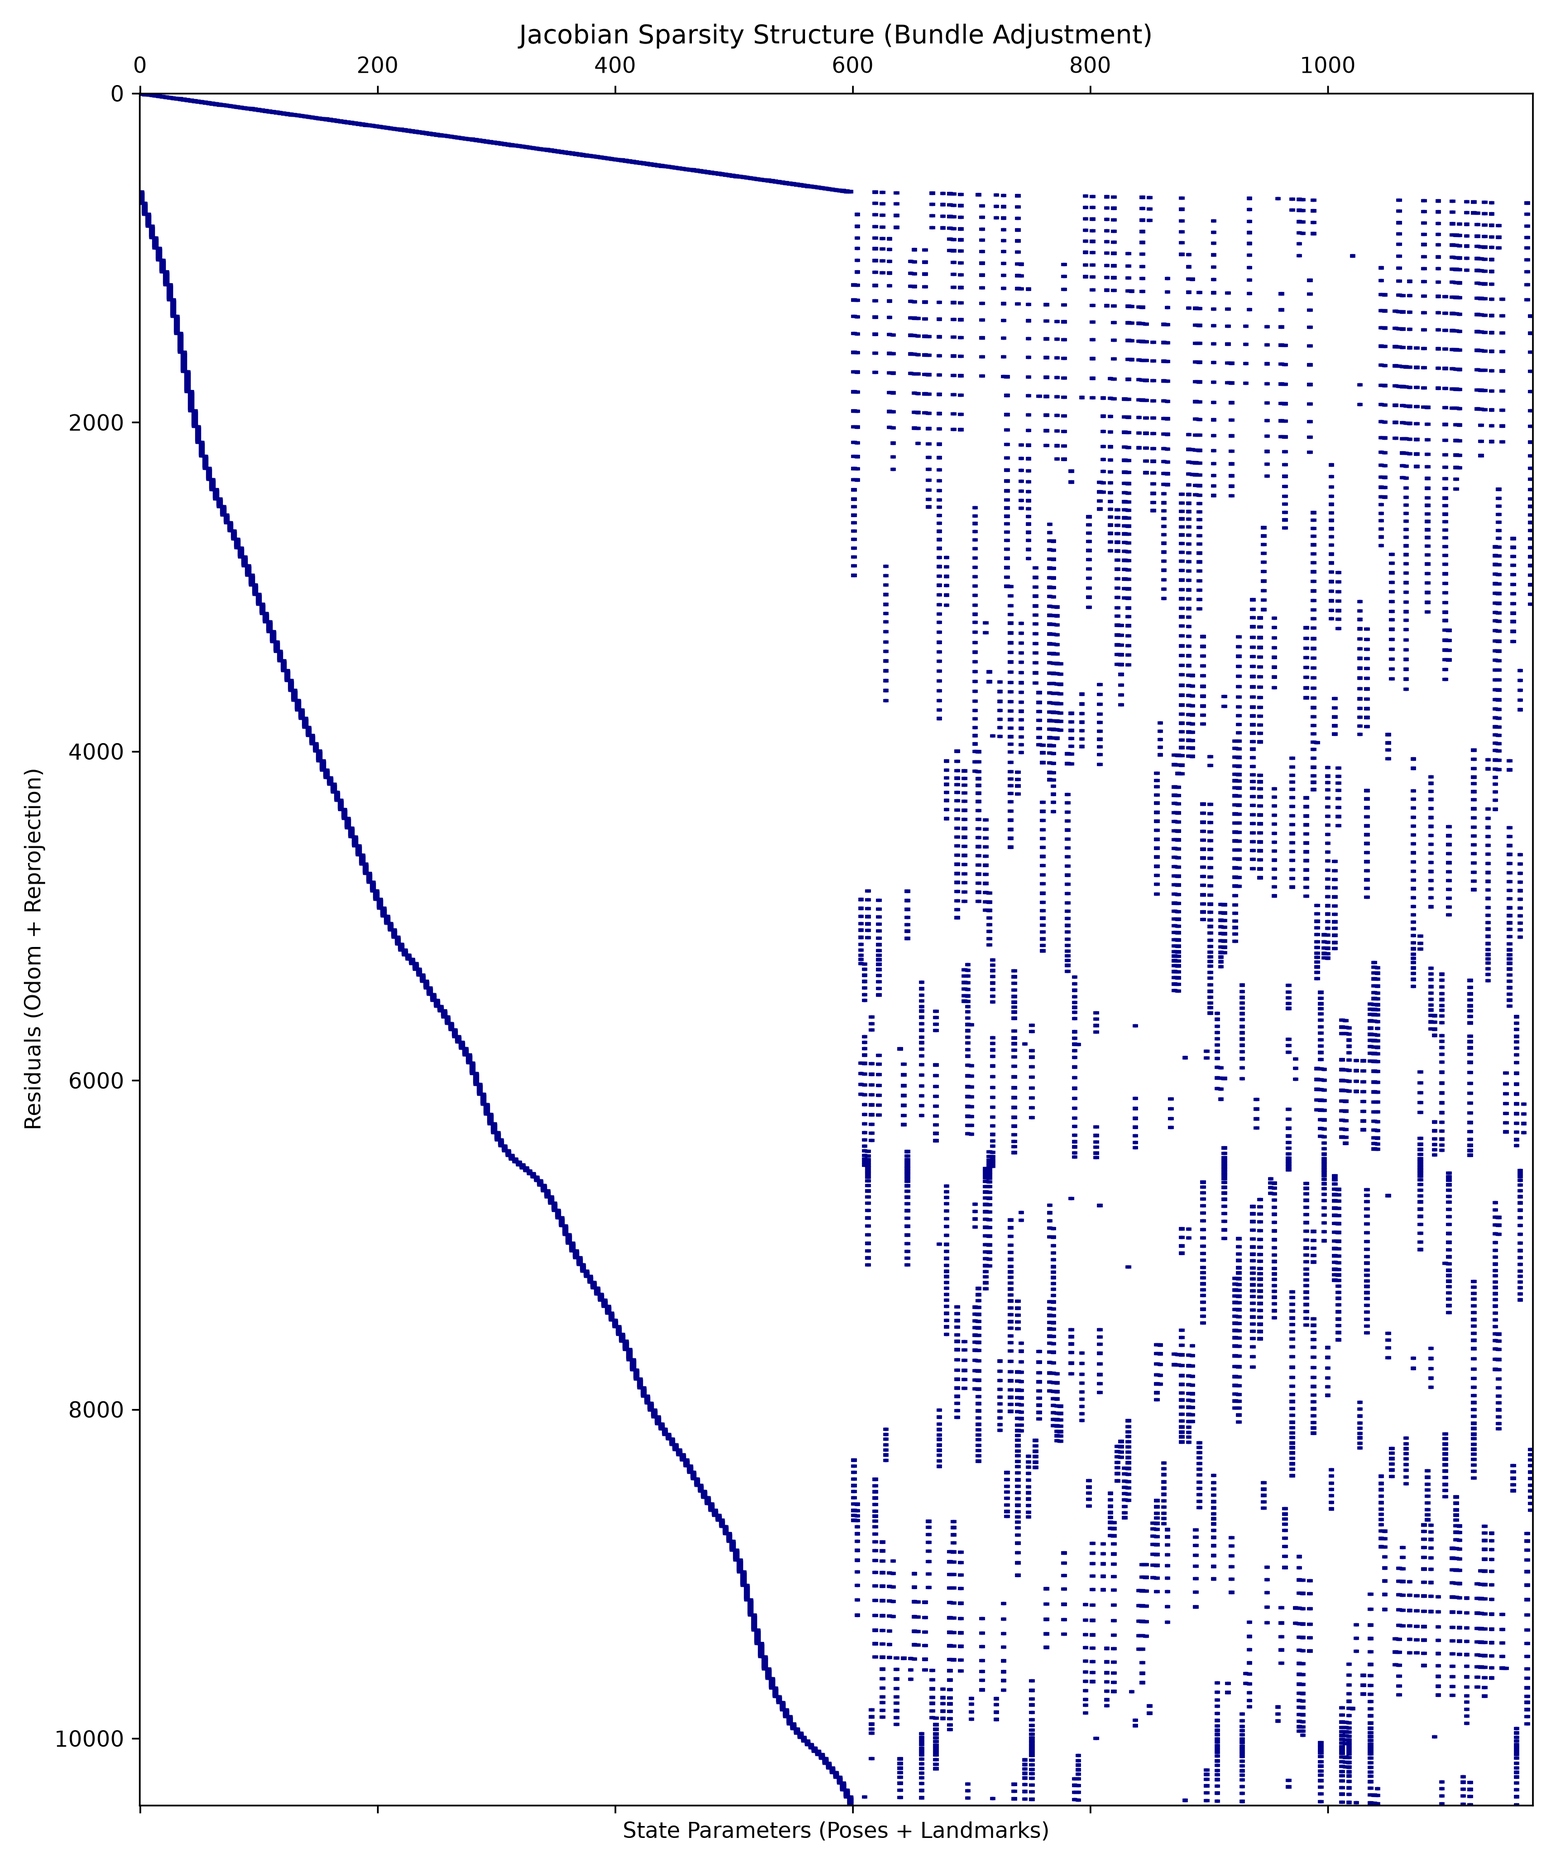
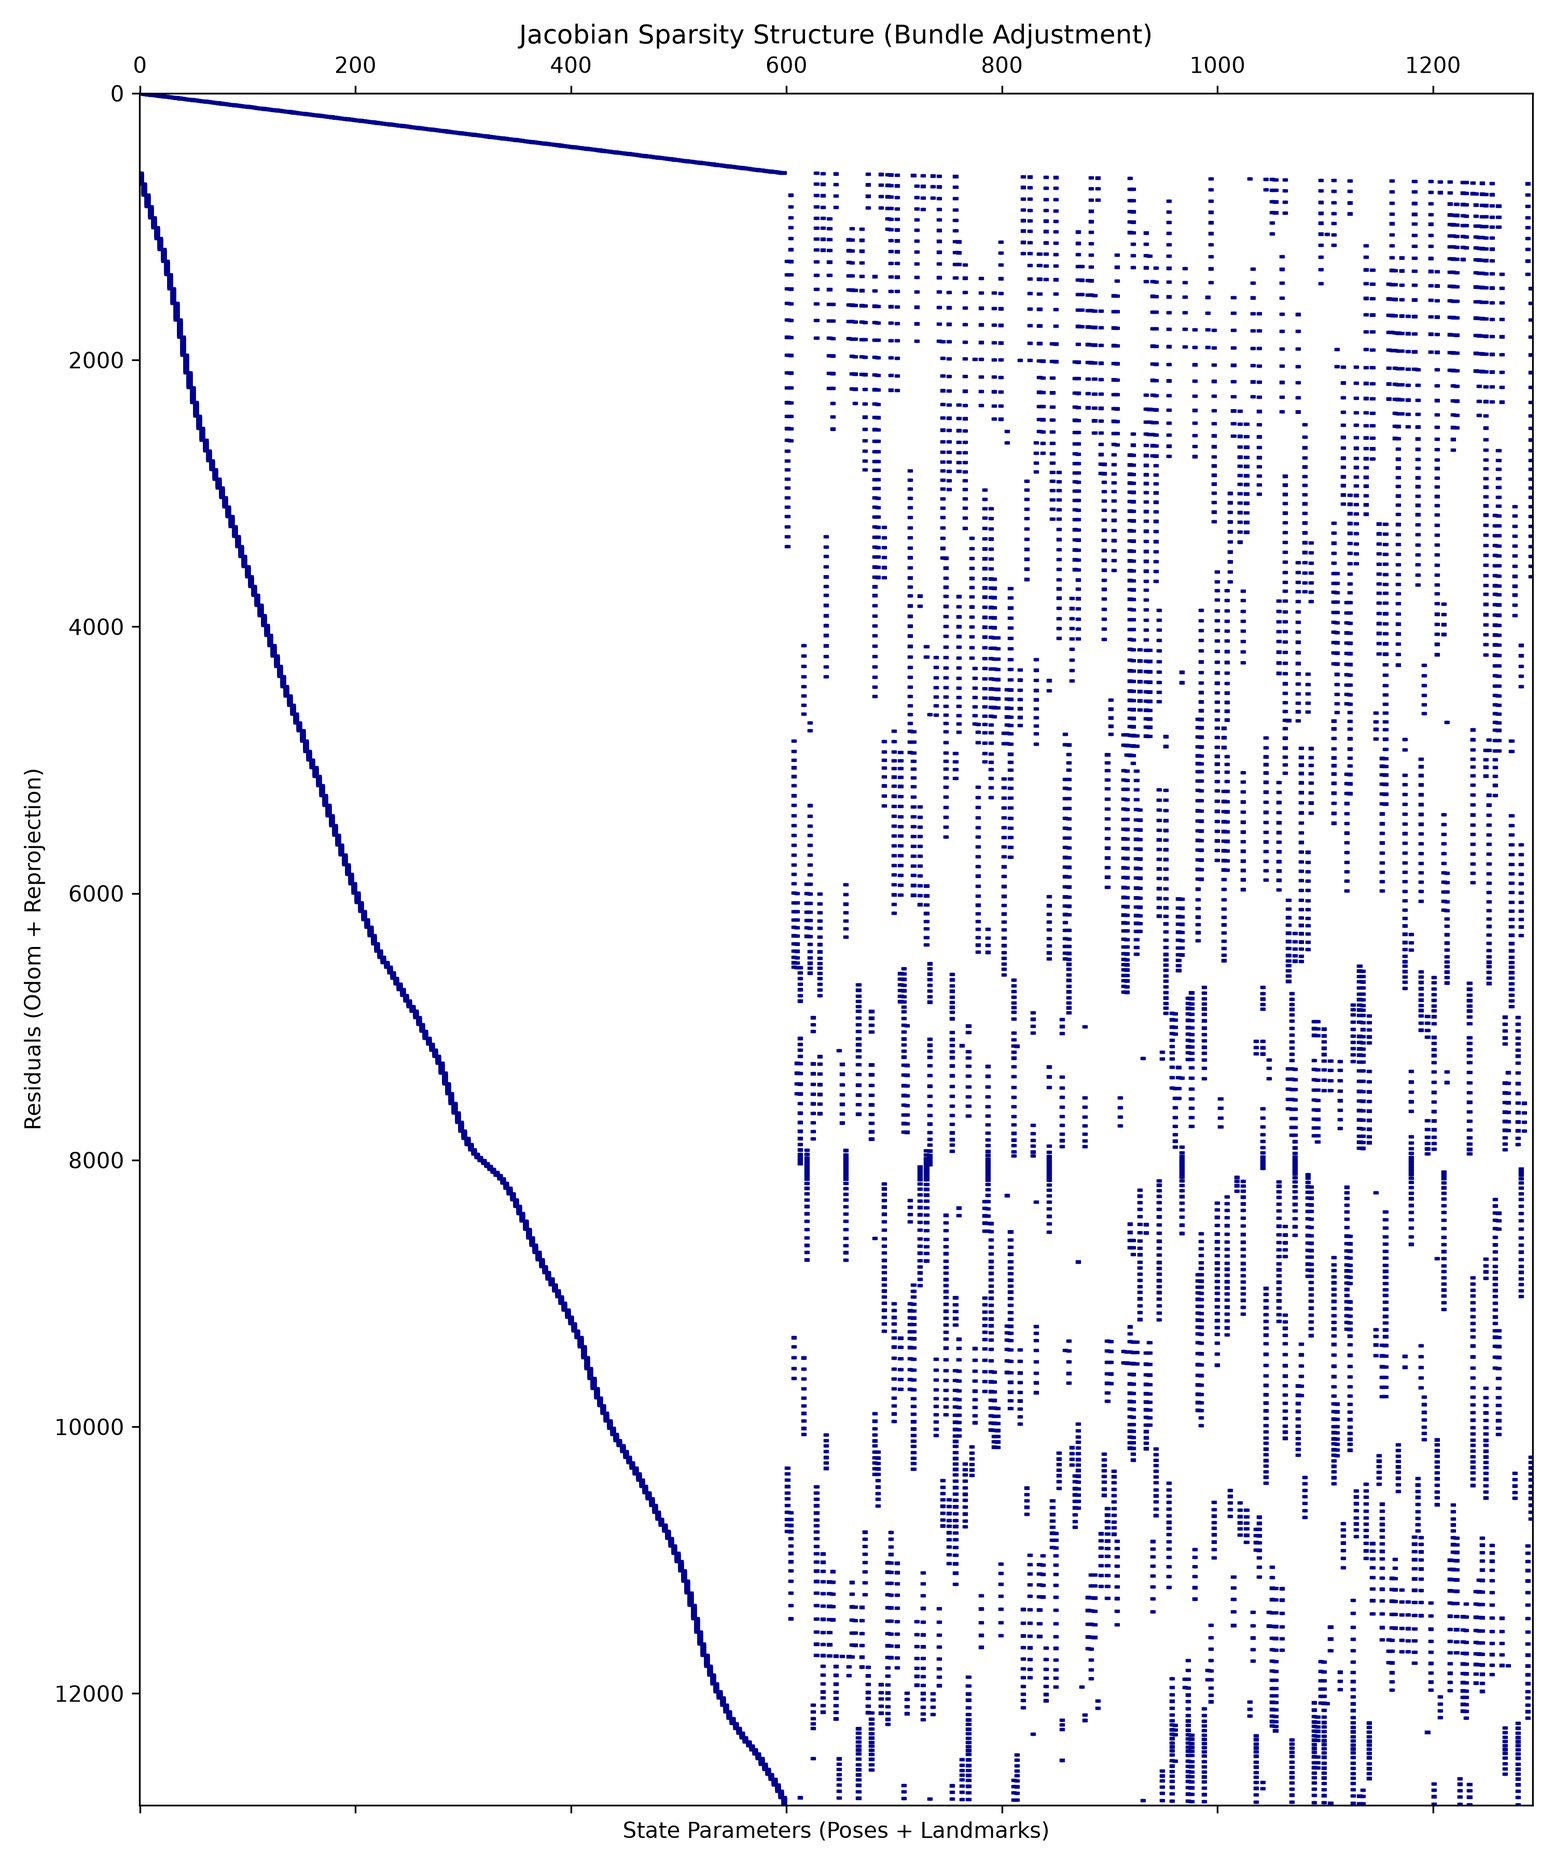
Refine SLAM landmark filtering and BA weighting

diff --git a/backend.py b/backend.py
@@ -74,8 +74,8 @@ def compose_pose_from_odom(odom_pose, delta_pose):
 def compute_residuals(state_vector, pose_keys, point_keys, measurements, K, cam_transform,
                       odom_poses_dict, odom_constraints,
                       w_prior=100.0,
-                      w_odom=np.array([0.01, 0.01, 0.01]),
-                      w_reproj=2.5):
+                      w_odom=np.array([100.0, 100.0, 100.0]),
+                      w_reproj=0.05):
     """
     Total residuals:
     1) prior on the delta of the first pose
@@ -199,19 +199,18 @@ def build_sparsity_matrix(pose_keys, point_keys, measurements, odom_constraints,
     return A
 
 def filter_bad_landmarks(optimized_poses, optimized_map, measurements, K, cam_transform,
-                         max_mean_reproj_error=55.0,
+                         max_median_reproj_error=25.0,
+                         max_p90_reproj_error=120.0,
+                         max_mean_reproj_error=500.0,
                          min_valid_obs=1,
-                         max_distance=45.0):
+                         max_distance=100.0):
     """
-    Conservative post-optimization landmark filtering.
+    Conservative but robust post-optimization landmark filtering.
 
-    Since this is a SLAM project, the mapping component should preserve most of
-    the reconstructed landmarks. Therefore, this filter removes only landmarks
-    that are numerically invalid, geometrically implausible, or have a very high
-    mean reprojection error.
-
-    The goal is not to obtain the densest possible map at any cost, but to avoid
-    rejecting too many landmarks while keeping the trajectory estimation stable.
+    The goal is to preserve most of the reconstructed map while removing only
+    clearly unreliable landmarks. Instead of using only the mean reprojection
+    error, this filter also uses the median and the 90th percentile, which are
+    more robust to isolated extreme outliers.
     """
     filtered_map = {}
 
@@ -221,7 +220,7 @@ def filter_bad_landmarks(optimized_poses, optimized_map, measurements, K, cam_tr
         if not np.all(np.isfinite(pt_3d)):
             continue
 
-        # Reject only clearly implausible landmarks
+        # Reject only clearly implausible points
         if np.linalg.norm(pt_3d) > max_distance:
             continue
 
@@ -245,8 +244,6 @@ def filter_bad_landmarks(optimized_poses, optimized_map, measurements, K, cam_tr
             Xh = np.append(pt_3d, 1.0)
             proj = P @ Xh
 
-            # Invalid projections are ignored for the statistics,
-            # but the landmark is not immediately discarded.
             if proj[2] <= 1e-8:
                 continue
 
@@ -255,15 +252,27 @@ def filter_bad_landmarks(optimized_poses, optimized_map, measurements, K, cam_tr
             for idx in matches:
                 pixel_meas = meas['image_points'][idx]
                 err = np.linalg.norm(uv - pixel_meas)
-                errors.append(err)
-                valid_obs += 1
 
-        # Keep landmarks with at least one valid reprojection and acceptable average error
-        if valid_obs >= min_valid_obs and len(errors) > 0:
-            mean_err = np.mean(errors)
+                if np.isfinite(err):
+                    errors.append(err)
+                    valid_obs += 1
 
-            if mean_err <= max_mean_reproj_error:
-                filtered_map[pt_id] = pt_3d
+        if valid_obs < min_valid_obs or len(errors) == 0:
+            continue
+
+        errors = np.array(errors)
+
+        mean_err = np.mean(errors)
+        median_err = np.median(errors)
+        p90_err = np.percentile(errors, 90)
+
+        # Keep the landmark only if it is not dominated by extreme reprojection errors
+        if (
+            median_err <= max_median_reproj_error and
+            p90_err <= max_p90_reproj_error and
+            mean_err <= max_mean_reproj_error
+        ):
+            filtered_map[pt_id] = pt_3d
 
     return filtered_map
 
@@ -351,11 +360,12 @@ def run_bundle_adjustment(dataset, initial_map):
         measurements,
         camera_params['K'],
         camera_params['transform'],
-        max_mean_reproj_error=45.0,
+        max_median_reproj_error=30.0,
+        max_p90_reproj_error=180.0,
+        max_mean_reproj_error=1000.0,
         min_valid_obs=1,
-        max_distance=45.0
+        max_distance=100.0
     )
-
     print(f"   -> Landmarks after quality filter: {len(filtered_map)} / {len(optimized_map)}")
 
     return optimized_poses, filtered_map

diff --git a/evaluation.py b/evaluation.py
@@ -240,7 +240,6 @@ def plot_results(optimized_poses, gt_poses_dict, optimized_map, world_map, odom_
     if save_path is not None:
         plt.savefig(save_path, dpi=300)
         print(f"   -> Results plot saved as: {save_path}")
-    plt.show()
 
 def compute_reprojection_stats(poses_dict, points_dict, measurements, K, cam_transform):
     errors = []

diff --git a/frontend.py b/frontend.py
@@ -114,7 +114,7 @@ def run_bootstrap(dataset):
         err1 = np.linalg.norm(uv1 - pixel1)
         err2 = np.linalg.norm(uv2 - pixel2)
 
-        if err1 > 3.0 or err2 > 3.0:
+        if err1 > 4.0 or err2 > 4.0:
             continue
 
         initial_map[pt_id] = X_3d

diff --git a/README.md b/README.md
@@ -234,18 +234,33 @@ Instead, for each landmark, the algorithm selects the pair of observations with 
 
 After selecting the best observation pair, the corresponding landmark is triangulated in 3D.
 
+### Frontend landmark initialization
+
+The frontend initializes the 3D map by collecting multiple observations of each landmark and triangulating the landmark position from the best pair of camera views.
+
+The final configuration preserves a stable minimum baseline while slightly relaxing the initial reprojection threshold:
+
+- minimum baseline: `0.60`
+- initial triangulation reprojection threshold: `4.0 px`
+- maximum 3D landmark distance: `12.0 m`
+
+The minimum baseline is kept sufficiently high to avoid unstable triangulations from nearly identical viewpoints. At the same time, the reprojection threshold is relaxed to avoid discarding potentially useful landmarks too early in the pipeline.
+
+This configuration allows the system to initialize a larger and more reliable set of landmarks while still rejecting clearly unstable triangulations.
+
 A landmark is kept only if:
 
 - it has at least two observations;
-- the selected camera baseline is large enough;
+- the selected camera baseline is at least `0.60`;
 - the homogeneous triangulation is numerically stable;
 - the reconstructed point has positive depth in both camera views;
-- the reprojection error on the selected pair is sufficiently small;
-- the point is not excessively far from the origin.
+- the reprojection error on the selected pair is below `4.0 px`;
+- the point is not farther than `12.0 m` from the origin.
 
 This stage produces the initial sparse map, which is then refined during Bundle Adjustment.
 
 ---
+
 
 ## 3. Bundle Adjustment
 
@@ -275,6 +290,7 @@ This formulation uses odometry as an initial guess and allows the optimizer to r
 
 The Bundle Adjustment cost function contains three families of residuals.
 
+
 ### 1. Prior on the First Pose
 
 A prior is added on the correction of the first pose.
@@ -303,6 +319,28 @@ where:
 
 - `(u_proj, v_proj)` is the projected landmark position;
 - `(u_meas, v_meas)` is the measured image point.
+
+### Bundle Adjustment weighting
+
+The Bundle Adjustment cost function combines three types of residuals:
+
+- a prior residual on the first pose;
+- odometric residuals, expressed in meters and radians;
+- visual reprojection residuals, expressed in pixels.
+
+Since these residuals have different units, magnitudes and cardinalities, their numerical weights cannot be compared directly. The final weights were tuned empirically to normalize the residual scales and prevent the pixel reprojection terms from dominating the optimization.
+
+The final configuration is:
+
+```python
+w_prior = 100.0
+w_odom = np.array([100.0, 100.0, 100.0])
+w_reproj = 0.05
+```
+
+With this configuration, the odometric constraints act as a trajectory regularization term, while the reprojection residuals remain active for landmark refinement and visual consistency.
+
+This weighting strategy is consistent with the idea of information-based weighting, where residuals are scaled according to their expected uncertainty, numerical magnitude and measurement units.
 
 ---
 
@@ -343,18 +381,31 @@ This confirms the expected Bundle Adjustment structure: each visual residual aff
 
 After Bundle Adjustment, the resulting map is filtered again to remove unstable or poorly reconstructed landmarks.
 
-In the initial version of the project, this filtering stage was too restrictive and removed a large portion of the triangulated landmarks. Since this is a SLAM project, the mapping component should preserve a sufficiently rich set of landmarks instead of keeping only a very small subset of highly accurate points.
+### Robust landmark quality filtering
 
-For this reason, the post-optimization filtering strategy was made more conservative. The goal is to discard only clearly unreliable landmarks while preserving enough map structure to support the final trajectory estimation.
+The final landmark filtering stage was modified to avoid removing useful map information too aggressively.
 
-A landmark is preserved if:
+Instead of rejecting landmarks only according to the mean reprojection error, the final version uses a more robust criterion based on:
 
-- it is numerically valid;
-- it is not geometrically implausible;
-- it has at least one valid reprojection;
-- its mean reprojection error remains below the selected threshold.
+- median reprojection error;
+- 90th percentile reprojection error;
+- mean reprojection error as an additional safety bound;
+- maximum landmark distance;
+- numerical validity of the 3D point.
 
-This conservative filtering strategy increases the number of retained landmarks compared to the initial submitted version, while keeping the trajectory estimation stable.
+This makes the filtering less sensitive to isolated high-error observations. A landmark is rejected only when its reprojection behavior is consistently poor or when it is geometrically or numerically implausible.
+
+The final filtering parameters are:
+
+```python
+max_median_reproj_error = 30.0
+max_p90_reproj_error = 180.0
+max_mean_reproj_error = 1000.0
+min_valid_obs = 1
+max_distance = 100.0
+```
+
+This conservative but robust filtering strategy preserves most of the reconstructed map while still removing clear outliers.
 
 ---
 
@@ -458,47 +509,37 @@ The following values were obtained from the final execution of the complete pipe
 
 | Metric | Value |
 |---|---:|
-| Initial landmarks | 191 |
-| Final landmarks | 111 |
-| Translation RMSE | 0.0167 m |
-| Rotation RMSE | 0.0153 rad |
-| Map RMSE | 1.4211 m |
+| Initial landmarks | 231 |
+| Final landmarks | 220 |
+| Translation RMSE | 0.0242 m |
+| Rotation RMSE | 0.0145 rad |
+| Map RMSE | 1.3738 m |
 | Mean reprojection error after BA | 18.949 px |
-| Median reprojection error after BA | 10.655 px |
-| Observations used after BA | 3130 |
-| Absolute trajectory RMSE after SE(2) alignment | 0.4697 m |
+| Median reprojection error after BA | 9.773 px |
+| Observations used after BA | 5941 |
+| Absolute trajectory RMSE after SE(2) alignment | 0.3604 m |
 
 ---
 
-
 ## Discussion of the Results
 
-The results show that the Bundle Adjustment stage improves the trajectory estimate with respect to raw odometry.
+The final results show that the implemented Bundle Adjustment stage successfully refines both the robot trajectory and the reconstructed landmark map.
 
-The odometry provides a noisy but useful initial guess. Bundle Adjustment then refines this estimate by combining odometry constraints with visual reprojection constraints.
+Compared to the previous submitted version, the final system preserves a significantly larger portion of the reconstructed map. The number of final landmarks increased to 220 out of 231 initially triangulated landmarks, meaning that approximately 95% of the initialized map is retained after optimization and filtering.
 
-Compared to the initial submitted version, the post-optimization landmark filtering was made more conservative in order to avoid excessive landmark rejection. The final system retains 111 landmarks out of 191 initially triangulated landmarks, preserving approximately 58% of the initial map.
+This improvement was obtained through three main refinements. First, the frontend initialization was adjusted to preserve a larger set of reliable landmarks while keeping a stable triangulation baseline. Second, the Bundle Adjustment residual weights were empirically normalized to account for the different units and magnitudes of odometric and visual residuals. Third, the final landmark filtering stage was redesigned using robust statistics, including the median and the 90th percentile of the reprojection error.
 
-This improves the mapping component while keeping the trajectory estimation stable. The final trajectory remains close to the ground truth, as shown by the translation RMSE, rotation RMSE and absolute trajectory RMSE values.
+The odometric residuals are expressed in meters and radians, while reprojection residuals are expressed in pixels and are much more numerous. For this reason, the residual weights are not directly comparable as raw numbers. The final weighting prevents noisy visual observations from dominating the trajectory estimate, while still preserving the role of reprojection residuals in landmark refinement and visual consistency.
 
-The final landmark map is still sparse, but it is no longer excessively reduced. This represents a trade-off between:
+The final configuration improves the map density without producing an excessively aggressive filtering stage. The system retains most of the initialized landmarks while still removing geometrically or numerically implausible points.
 
-- map density;
-- map reliability;
-- reprojection consistency;
-- numerical stability.
+The final trajectory remains stable and close to the ground truth. This is shown by the translation RMSE, rotation RMSE and absolute trajectory RMSE values. In particular, the absolute trajectory RMSE after SE(2) alignment is reduced to 0.3604 m.
 
-The mean reprojection error is higher than the median reprojection error. This difference suggests that most observations remain reasonably consistent, while a smaller number of higher-error observations still affects the mean value. For this reason, both mean and median reprojection errors are reported.
+The final map RMSE is 1.3738 m. This value remains larger than the trajectory error, which is expected because monocular triangulation is sensitive to baseline quality, image noise, limited visibility, geometric degeneracies and inaccurate initial depth estimation.
 
-The map RMSE remains larger than the trajectory error, which is expected because monocular triangulation is sensitive to:
+The mean reprojection error is higher than the median reprojection error. This suggests that most observations remain reasonably consistent, while a smaller number of higher-error observations still affects the mean value. For this reason, both mean and median reprojection errors are reported.
 
-- baseline quality;
-- image noise;
-- limited visibility;
-- geometric degeneracies;
-- inaccurate initial depth estimation.
-
-Overall, the implemented system successfully performs the complete Planar Monocular SLAM pipeline required by the assignment. The final version preserves a larger portion of the reconstructed map while maintaining a stable and accurate trajectory estimate.
+Overall, the implemented system successfully performs the complete Planar Monocular SLAM pipeline required by the assignment. The final version preserves a much larger portion of the reconstructed map, improves the absolute trajectory error, and maintains a stable and physically plausible trajectory estimate.
 
 ---
 
@@ -553,7 +594,7 @@ A two-stage filtering strategy was adopted:
 1. an initial filter during triangulation;
 2. a post-optimization filter after Bundle Adjustment.
 
-The final filter keeps only landmarks with enough valid observations and bounded mean reprojection error.
+The final filter uses robust reprojection statistics, including the median and the 90th percentile of the reprojection error, together with numerical validity and distance checks.
 
 ---
 
@@ -629,4 +670,4 @@ Despite its simplifying assumptions, the implementation demonstrates the main co
 - map filtering;
 - quantitative evaluation.
 
-The final result is a sparse but reliable reconstruction of the environment and an improved estimate of the robot trajectory.
+The final result is a more complete sparse reconstruction of the environment and an improved estimate of the robot trajectory. The refined filtering and weighting strategy allows the system to preserve most of the initialized landmarks while maintaining a stable trajectory estimate.
